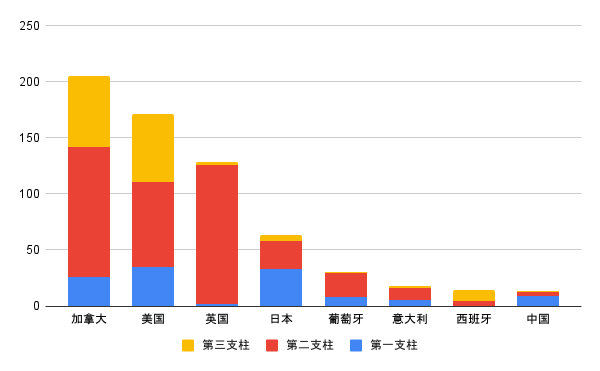
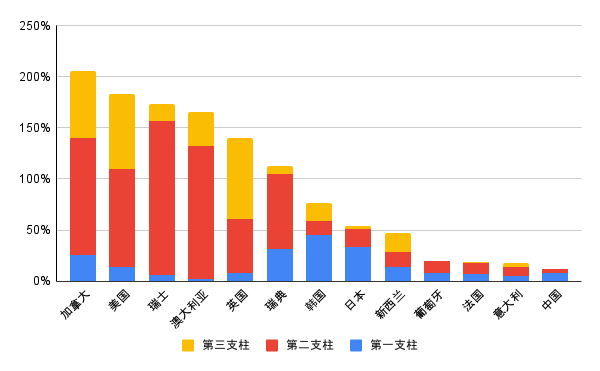
update

Changed region(s): [[0.03, 0.1779, 0.96, 0.8895], [0.06, 0.0593, 0.09, 0.0889]]

diff --git a/main.tex b/main.tex
@@ -1,6 +1,6 @@
 %任何有关社会保险的选题均可，期末论文具体题目请自拟
 %论文请用A4纸，字体宋体、正文字号五号，论文正文部分不超过15页。
-\documentclass[a4paper,12pt]{ctexart}
+\documentclass[a4paper,10.5pt]{ctexart}
 \usepackage[style=gb7714-2015ay]{biblatex}
 \usepackage{graphicx}
 \usepackage{amsmath}
@@ -9,48 +9,151 @@
 \usepackage[hidelinks]{hyperref}
 \providecommand{\keywords}[1]{\\\textbf{\textit{关键词：}}#1}
 \addbibresource{reference.bib}
-\title{个人养老金：让第三支柱真正成为支柱}
+\title{个人养老金：全球视角与中国特色}
 \author{董晨阳}
 \date{\today}
 \begin{document}
 \maketitle
+\thispagestyle{empty}
 \begin{abstract}
-在这里写摘要。
-\keywords{关键词1，关键词2}
+    在这里写摘要。
+    \keywords{关键词1，关键词2}
 \end{abstract}
+\setcounter{secnumdepth}{0}
+\tableofcontents
 \clearpage
-\section*{个人养老金的时代背景}
-2022年4月，国务院办公厅发布《关于推动个人养老金发展的意见》，标志着中国个人养老金已经取得制度层面的突破。2022年6月，人力资源社会保障部、财政部、国家税务总局、银保监会、证监会联合印发《关于推动个人养老金发展的意见》宣传提纲，加速推进政策落地。11月，《个人养老金实施办法》、《个人养老金投资公开募集证券投资基金业务管理暂行规定》、《商业银行和理财公司个人养老金业务管理暂行办法（征求意见稿）》、《关于个人养老金有关个人所得税政策的公告》等政策落地，明确了个人养老金参与流程、税收优惠等细节，完善了个人养老金相关产品规定。
+\setcounter{page}{1}
+\section{个人养老金的全球多样性}
+发展个人养老金，是应对人口老龄化压力、完善养老体系的重要改革举措。经过长期论证，我国于2018年启动个人养老金制度建设，2022年加快部署：4月份国务院办公厅发布《关于推动个人养老金发展的意见》；6月份人社部、财政部、国家税务总局、银保监会、证监会联合印发《关于推动个人养老金发展的意见》宣传提纲，证监会发布《个人养老金投资公开募集证券投资基金业务管理暂行规定(征求意见稿)》，随着更多相关细则落地实施，个人养老金发展可能进入新阶段。
+\begin{figure}[H]
+    \includegraphics[width=\linewidth]{img/三支柱规模占GDP比重.png}
+    \caption{养老储备规模与结构差异明显}
+\end{figure}
 
-我国以基本养老保险为基础、企业年金和职业年金为补充、个人储蓄性养老保险和商业养老保险相衔接的“三支柱”体系，对应当前国际养老体系的一般基准。个人养老金属于第三支柱，与前两支柱的不同在于：第一支柱基本养老保险由国家强制实施，个人养老金由个人自愿参加；第二支柱企业年金、职业年金由用人单位及其职工建立、共同缴费，个人养老金由个人缴费。从三支柱的规模占比来看，第一支柱占主导。截至2021年底，我国第一支柱基本养老金总规模约6.4万亿元，已覆盖超过10.3亿人；第二支柱约为4.5万亿元，参加职工超7000万人；第三支柱刚刚起步，我国商业养老保险责任准备金积累规模0.6万亿元。三大支柱总规模约11万亿元，一、二、三支柱分别占比67\%，29\%和4\%，合计约占GDP的13.4\%。
+由于海外发展个人养老金时间较久，可以为我国提供一定借鉴，当前大部分的养老金研究也以梳理国外案例为主，通过列举几个发达市场个人养老金的发展现状，然后套用到我国的养老金实践中。例如根据美国第一、二、三支柱养老金资产占GDP比重，预测中国未来的个人养老金规模。这种案例分析虽然可以提供一定信息，但是局限性也比较明显。由于各国的经济基础、人口结构、制度体系千差万别，不仅导致养老金总体规模差异明显，结构比重也大相径庭。美国个人养老金规模占GDP比重超过70\%，在养老储备中占比约40\%，而同属发达国家的日本，其个人养老金规模占GDP比重仅3.4\%，在养老储备中占比不足4\%。中国个人养老金的发展前景究竟应该对标美国还是日本？案例分析难以给出令人信服的答案。
+\begin{figure}[H]
+    \includegraphics[width=\linewidth]{img/totalOECDpensionassets.png}
+    \caption{养老金资产的全球分布极不均匀}
+\end{figure}
 
-个人养老制度推进的背景因素包括以下几个方面：
+分析个人养老金发展前景，确实需要参考海外市场经验，但是分析框架需要升级，不能停留在列举个别案例的层面，而应从全球养老金的多样化实践中寻找普遍规律，以此为基础推导我国乃至全球个人养老金的发展前景，并根据中国具体国情做出修正。本文根据过去20年中26个国家的个人养老金发展实践，从人口特征、经济基础、制度设计三个维度展开分析，研究中国与全球养老金的发展的共性与特性，提供一些分析与核算。
+\section{文献综述}
+
+\section{他山之石：海外养老金第三支柱发展经验}
+\subsection{美国}
+\subsection{日本}
+\subsection{德国}
+
+\section{个人养老金规模的影响因素}
+
+\subsection{人口特征}
+年龄结构变化首先促进养老金积累，然后可能会形成养老金减量压力。根据生命周期理论\cite{ando1963life}，个体的收入水平随年龄不断变化，理性人会根据一生总收入安排消费与储蓄：在年轻阶段，收入大部分被消费掉甚至小于消费，往往形成负债，储蓄较少；中年阶段收入高于消费，偿还年轻时的负债，并为退休阶段准备养老资金，储蓄积累较快；进入老年阶段，消费下降但收入下降更多，需要使用中年阶段积累的养老资金，储蓄增长放缓甚至减少。因此随着年龄增长，储蓄水平先上升后下降。使用老年抚养比把全球主要国家分为四组，观察2010-2020年的个人养老金积累速度，可以发现随着老年抚养比提高，个人养老金积累速度开始放缓，但是在抚养比小于35\%时，个人养老金仍然可以实现较快积累；当抚养比小于20\%时，抚养比每提升1\%，个人养老金占GDP比重增加3.6\%；抚养比处于20\%-30\%之间时，养老金比重平均上升2.7\%；当抚养比在30\%-35\%之间，养老金比重增速降至1.2\%。只有当抚养比超过35\%，个人养老金占GDP比重才进入相对稳定状态。目前全球老年抚养比为14.8\%，联合国预测2075年左右升至35\%。在这个阶段，虽然消耗储蓄的75岁以上人口比重上升较快，但是55-74岁相对年轻的老年人口比重也在上升，而这个年龄阶段人口仍在积累储蓄，因此全球养老金在未来10年里可能仍会继续增长。与此同时，随着储蓄最多的中年人口比重下降，全球总体养老金积累速度可能开始放缓。由于不同国家老年化程度不同，养老金积累可能分化加剧，部分老龄化程度较深的国家甚至可能出现养老金减量的情况。
+\begin{figure}[H]
+    \includegraphics[width=\linewidth]{img/随着老年付养比提高，养老金积累增速开始下降.png}
+    \caption{从左到右颜色对应老年抚养比0-20\%，20-30\%，30-35\%，35\%以上}
+\end{figure}
+
+预期寿命延长则促进养老金积累。在给定退休年龄的前提下，预期寿命延长意味着退休时间相较工作时间得到延长。根据生命周期理论，为平滑终身消费，居民需要在工作阶段积累更多的养老储蓄，用以退休后的消费支出，因此预期寿命和养老储蓄之间应该存在正相关性。从实证数据来看，伴随世界人口预期寿命的提升，全球储蓄占GDP的比重震荡上行，一定程度上反映了二者的正相关性；大量学术文献也得出了相一致的结论\cite{bloom2003longevity,de2009life}，发现即使控制了居民收入、年龄结构等因素后，预期寿命的提升会显著提升居民储蓄率。由于个人养老金属于养老储蓄的一部分，因此预期寿命的延长会对个人养老金起到推动作用。
+\begin{figure}[H]
+    \begin{minipage}{0.48\linewidth}
+        \includegraphics[width=\linewidth]{img/世界各国预期寿命普遍提升.png}
+        \caption{世界各国预期寿命普遍提升}
+    \end{minipage}
+    \begin{minipage}{0.48\linewidth}
+        \includegraphics[width=\linewidth]{img/人口预期寿命与储蓄占GDP比重同步上升.png}
+        \caption{预期寿命与储蓄占GDP比重同步上升}
+    \end{minipage}
+\end{figure}
+
+\subsection{经济基础}
+
+个人养老金是一种储蓄，而收入水平是影响储蓄的关键因素。凯恩斯的《就业利息和货币通论》中提出了边际消费倾向递减的规律，即虽然居民消费会随着居民收入的增加而增加，但增加的收入中用于消费的比例会逐渐降低，相对应储蓄的比例会升高。边际消费倾向递减的规律决定了收入水平提高会提升储蓄率，相应个人养老金规模就可能越大，个人养老金规模与居民收入水平呈现出明显正相关。
+\begin{figure}[H]
+    \includegraphics[width=\linewidth]{img/人均收入上升会提升储蓄率.png}
+    \caption{人均收入上升会提升储蓄率}
+\end{figure}
+
+个人养老金也与居民资产配置结构相关。居民资产可分为实物资产和金融资产，个人养老金作为养老储蓄，也属于金融资产的范畴。与金融资产不同，以住房为代表的部分实物资产同时具备“实物”和“金融”双重属性，如果“金融”属性被放大，则会对个人养老金等其它金融资产形成挤压。部分国家的实证研究表明，高房价会对私人养老储蓄产生挤出效应。例如\citet{crawford2020impact}研究英国市场发现高房价会挤出私人养老金参与率，对于中等收入人群尤其明显，私人养老金发展规模与房地产相对价格呈现负相关。
+\begin{figure}[H]
+    \begin{minipage}{0.48\linewidth}
+        \includegraphics[width=\linewidth]{img/us.png}
+        \caption{美国居民资产配置结构中房产占比仅约25\%}
+    \end{minipage}
+    \begin{minipage}{0.48\linewidth}
+        \includegraphics[width=\linewidth]{img/cn.png}
+        \caption{中国居民资产配置结构中房产占比接近60\%}
+    \end{minipage}
+\end{figure}
+
+我国居民资产配置失衡不仅体现在以房产为代表的实物资产占比过高，在金融资产内部也存在配置失衡，后者主要受我国金融发展水平影响。从广义角度讲，金融作为资金供给-需求的中间桥梁，其发展水平决定了储蓄-投资的转换效率，影响收入分配和资产配置格局，进而左右个人养老金的发展。金融发展受制度性因素影响较大，尤其是在发展中国家中，普遍存在金融抑制现象。金融抑制的概念最早由\citet{fishkin1973moral}提出，指政府干预金融市场而阻碍金融发展的现象，主要表现为利率(上限)管制、流动性比率限制、高存款准备金率、资本管制、金融市场准入门槛、信贷额度或分配限制、银行国有化等。金融抑制会阻碍个人养老金的发展，主要体现在需求和供给两个方面：从需求端，在金融抑制的环境中，由于存款利率被严重压低，实际上形成了一种居民补贴企业的效果，同时诱导企业选择低成本的资本密集型技术，以资本替代劳动，导致居民收入在国民收入分配中所占份额下降\cite{陈斌开2012金融抑制}，对养老储蓄形成挤出；在供给端，由于高度依赖银行体系并存在资本账户管制，金融资产形式单一，直接融资市场发展不完备，养老产品供给缺乏，居民养老投资选择范围有限。
+
+投资收益率提高，可以促进个人养老金积累。从资产增值的角度，投资收益率的提高会加速个人养老金所积累资产的增值，与此同时根据生命周期理论，高收益率可能会吸引个人投资者减少当期消费、增加储蓄，并提升个人养老金相较其它个人储蓄(如定期存款)的吸引力，将其他个人储蓄转化为个人养老金。
+\begin{figure}[H]
+    \includegraphics[width=\linewidth]{img/OECD国家私人养老金资产配置中股票占比不断上升.png}
+    \caption{OECD国家私人养老金资产配置中股票占比不断上升}
+\end{figure}
+
+\subsection{制度设计}
+第一二支柱的发展状况，会影响第三支柱个人养老金发展。由于公共养老金大多采用现收现付制，养老金资产存量未必准确反映养老金实际经济影响，个人养老金发展规模与公共养老金的支出规模存在较强的负相关关系，反映二者的替代效应。如果公共养老金支出规模较大，势必需要政府财政或居民缴费的支撑，在此背景下居民当期可支配收入减少，降低了于私人储蓄。与此同时，公共养老金支出较高，一般替代率水平也比较高，已经可以满足大部分居民的养老需求，积累私人养老金的必要性下降。
+
+个人养老金和企业养老金同属于私人养老金，总体来看二者的发展具有正相关性，主要由于二者属性相似，均为基金积累制，且税收优惠制度相似。但与此同时，二者也具有竞争性：企业养老金相较个人养老金更具吸引力：企业年金一般会由企业或政府配资，且部分国家企业养老金具有强制性或半强制性，或引入自动加入机制，而个人养老金一般为自愿型。促进个人养老金发展的关键机制设计在于转化机制。如果没有相互转化机制，由于企业年金更具优势，往往个人养老金发展相对缓慢；而如果存在相互转化机制，个人养老金一般能获得更好发展。以美国为代表，企业年金发展会推动个人养老金发展。事实上美国家庭向个人养老金中缴存的比例较低，其资金来源主要以401(k)等企业或其它养老计划的转存流入为主，占比高达90\%以上。
+
+最后，税优制度也对个人养老金有一定的促进作用。世界各国普遍采用税收激励的方式以支持个人养老金发展，这也是个人养老金与普通银行存款等其它投资储蓄账户的主要区别之一。目前世界上主流的免税激励模式是EET型，即在缴费和资本利得阶段享受税收优惠，在提取阶段需要偿还税收优惠。通过简单计算即可发现，EET模式相较正常储蓄账户具有显著的税收激励效果。其中，资本利得税在EET免税激励模式中发挥了重要作用，普通储蓄账户的资本利得税越高，养老金账户在EET模式下所享受的税收优惠程度就越大，进而促进个人养老金的发展
+
+\section{中国特色}
+\subsection{个人养老金政策与产品现状}
+政策设计上，自2018年启动建立养老保险第三支柱工作以来，我国个人养老金账户政策逐步细化。对比国外相关规定，当前我国个人养老金政策的主要特征为
 \begin{enumerate}
-    \item 中国养老体系发展较快但仍相对薄弱，三支柱总量规模仍显不足。如前文所述，当前三大支柱合计规模11万亿元，占GDP的比例为13\%，略低于OECD平均水平（2020年为14\%），与部分发达国家相比更是有较大差距，2020年加拿大、英国等发达国家的养老金储备占GDP比重普遍超过100\%，，美国三支柱规模占GDP比例为171\%。虽然我国的财政实力（增加财政用于社保的支出）及保障储备（划转国资充实社保）都可以作为居民养老的潜在补充，但是这些并不能替代三支柱体系。
-    \begin{figure}[H]
-        \centering
-        \includegraphics[width=\linewidth]{img/三支柱规模占GDP比重.png}
-        \caption{2020年三支柱规模占GDP比重}
-        \label{fig:GDPin2020}
-    \end{figure}
-    \item 三支柱规模并不均衡，目前仍以第一支柱为主。近年我国对于第二、三支柱发展的重视程度明显提升，结合前文所述，截止2021年底，三个支柱的规模占比为67\%:29\%:4\%，相较十年前第一支柱规模占比接近90\%的情况已经有明显改观。但是相较其他主要国家的情况来看，目前我国的三支柱占比仍不均衡，第一支柱的占比依然偏高。对比美国来看，美国当前三大支柱养老金的总规模分别为8.0万亿美元、14.8万亿美元和16.5万亿美元，占比为20\%:38\%:42\%，也由此可见美国的雇主养老金计划（第二支柱）和个人养老金计划（第三支柱）在美国整个养老金体系的重要性。未来第一支柱的扩大可能受制于缴费率和人口老龄化问题。中国第一支柱城镇职工基本养老保险合计缴费率为24\%，其中企业缴纳16\%，个人缴纳8\%，相对比美国第一支柱的有效缴费率仅为10.6\%，同属亚洲国家的日本和韩国分别为8.3\%和9\%。这使得我国企业的税费负担相对较重。与此同时，伴随我国人口老龄化加深，未来养老负担明显加重。目前老年赡养率为18.5\%，低于OECD平均水平（30.4\%），2050年中国老年赡养率可能上升至接近50\%，2080年进一步上升至60\%。在缴费率难以进一步提升，养老支出在老龄化趋势下可能增加的背景下，第一支柱的规模较难扩大，甚至面临财务持续性问题。2014年城镇职保的征缴收入开始低于基金支出。为维持基金正常运营，各级政府财政补贴力度逐年提高。即便计入政府财政补贴，2020年城镇职保仍出现近7000亿元的收支缺口，基金累计结存首次出现下降。城乡居保只有个人账户来自缴费，统筹账户资金原本就由国家财政承担，因此自设立之初征缴收入就一直低于基金支出。因此，在第一支柱扩容可能受限的背景下，我国第二、三支柱（补充养老保险）发展对于我国养老金体系保障能力的提升具有重要意义。
-    \item 除了第一支柱外，发展个人养老制度也客观上有助于对冲其他养老方式面临的困境。例如结合世界银行对“第四支柱”的表述，房屋资产用于个人养老也是此前中国试点的一个方向。2014年6月，《关于开展老年人住房反向抵押养老保险试点的指导意见》出台，在北京、上海、广州、武汉开展住房反向抵押养老保险试点，2018年进一步将试点范围扩大至全国，但效果有限，呈现“供需双冷”局面。事实上，许多发达国家的住房反向抵押市场同样发展受阻。例如澳大利亚65岁以上老人中选择住房反向抵押的数量占比仅为1-2\%，价值占比0.4\%\citep{productivity2015australia}；美国约有12-14\%的老年人符合住房反向抵押的参与条件，但参与率低于2\%\citep{warshawsky2017retire}。而且“以房养老”可能会增加居民部门杠杆率，有降低金融稳定性的潜在风险；投资房产相当于对养老储备征收“累退税”，高收入阶层房屋投资需求高，可以有效转化为养老储备；而低收入阶层以刚性使用需求为主，较难分享房屋价值升值的福利。
+    \item 参与主体覆盖面广，参与自由。我国三支柱个人账户允许在中国境内参加一支柱养老保险的全体劳动者参与，第一支柱养老保险当前已覆盖约10亿人口。相比之下，第二支柱参保前提为供职企业设立企业年金，故三支柱养老覆盖面更广，参与更加自由。这一制度设计与美国IRA账户思路基本一致。值得一提的是，该制度的建立对于广大无法参加第二支柱养老体系的灵活就业人员意义重大，有望成为当前社会保障制度的重要补充。
+    \item 出资与主体：自愿开立，个人出资，个人管理。第三支柱养老体系完全由个人出资，采用完全积累制。不同于第一支柱与第二支柱的统一专户委托管理，第三支柱资金由个人作为投资决策主体。我国试点政策缴纳额度上限最高为12000元，占当年平均工资百分比16.2\%，高于IRA的13.1\%，但低于DC计划38.4\%，符合三支柱特征。
+    \item 账户投资范围：投资自由度相对前两支柱较高。个人自主选择购买符合规定的储蓄存款、理财产品、商业养老保险、公募基金等金融产品(统称个人养老金产品)。考虑到投资者教育水平等因素，我国相较于美国IRA账户投资自由度更低。
+    \item 账户开立：养老资金账户仅能在商业银行开立，其他符合规定的金融产品销售机构可代销养老主题金融产品，商业银行把握资金入口，而美国无相关限制。
+    \item 资金提取：有待进一步细化。参加人达到领取基本养老金年龄、完全丧失劳动能力、出国(境)定居等经信息平台核验领取条件后，可以按月、分次或者一次性领取个人养老金，领取方式一经确定不得更改，暂未规定强制提取年龄，也未明确提前支取的惩罚性条款。
 \end{enumerate}
 
+截至2022年11月25日，个人养老金产品主要有：
+\begin{enumerate}
+    \item 个人养老储蓄：首批23家商业银行发行的储蓄存款（包括4家国有大行发行的特定养老储蓄）
+    \item 个人养老金理财产品：包括养老理财产品及其他理财产品，已纳入养老理财试点的11家理财公司可以参与，需要将拟参与个人养老金运行的理财产品报送银保监会。
+    \item 个人养老金保险产品：包括年金保险、两全保险，以及银保监会认定的其他产品。目前包括6家机构的7只专属商业养老保险产品。
+    \item 个人养老金公募基金：试行阶段，优先纳入养老目标基金，后续适时逐步纳入其他基金。目前包括40家公募机构的129只养老目标基金。
+\end{enumerate}
 
-\section*{文献综述}
+\subsection{三支柱养老布局展望}
+综合海外养老资管行业发展特征与我国发展形势，三支柱养老发展空间广阔。
 
-\section*{个人养老金现状}
-\subsection*{当前政策扶持}
+居民收入持续提升有助于提升潜在账户持有率。美国账户持有比例与家庭收入正相关。据ICI统计，家庭年收入在2.5万美元及以下的美国家庭IRA持有率仅9\%；而年收入20万美元及以上家庭IRA持有率则高达65\%，且持有率随家庭年收入提升稳定正增。自2012年至2020年，我国城镇职工平均年薪已自4.0万元升至7.4万元，同期平均个人可支配收入从1.7万元提升至3.2万元，均有显著提升。结合海外经验，三支柱养老账户建设经济基础已有显著改善。
+\begin{figure}[H]
+    \includegraphics[width=\linewidth]{img/美国家庭持有IRA的比例与收入显著正相关.png}
+    \caption{美国家庭持有IRA的比例与收入显著正相关}
+\end{figure}
 
-\subsection*{产品现状}
+人口老龄化深化演进唤醒居民养老意识，提升账户持有意愿。美国经验表明，IRA持有意愿在退休前与住户年龄显著正相关。ICI调查数据显示，在退休年龄(65岁)之前，美国家庭IRA持有率随家主年龄提升而提升。我国人口老龄化的深入演进有望进一步唤醒居民养老储蓄意识，提升三支柱账户持有意愿。
+\begin{figure}[H]
+    \includegraphics[width=\linewidth]{img/IRA账户持有率和全美住户IRA账户持有率.png}
+    \caption{IRA账户持有意愿在退休前与住户年龄显著正相关}
+\end{figure}
 
-\section*{个人养老金现国际经验}
+我国居民在养老金融上风险偏好低、对于银行系产品参与意愿更高。中国养老金融50人论坛对1.2万18岁以上、在城镇居住的人员进行调查。从风险承受上看，近五成调查对象可以阶段性承受10\%以内的亏损、近四成调查对象表示任何时候都不能出现亏损；从税优养老金融产品参与意愿来看，居民对于养老理财、养老储蓄和养老保险这类风险较低的产品参与意愿更高。
+\begin{figure}[H]
+    \begin{minipage}{0.48\linewidth}
+        \includegraphics[width=\linewidth]{img/36调查对象无法承受任何亏损.png}
+        \caption{36\%调查对象无法承受任何亏损}
+    \end{minipage}
+    \begin{minipage}{0.48\linewidth}
+        \includegraphics[width=\linewidth]{img/居民对于养老理财、养老储蓄及养老保险参与意愿更高.png}
+        \caption{居民对于养老理财、养老储蓄及养老保险参与意愿更高}
+    \end{minipage}
+\end{figure}
 
-\section*{个人养老金现前景展望}
+\section{启示}
+投资属性上看，商业养老保险具有保本属性、养老理财风险较低、养老基金风险和波动更高；服务属性上看，商业养老保险具备相对优势。养老金融产品包括投资属性和服务属性，从投资属性上看，商业养老保险采取保本+浮动收益，适合风险偏好较低的投资者。养老理财和养老基金均为非保本产品，其中养老理财整体投资期限更长、具有较高的业绩比较基准、产品费率低，同时具有风险保障机制以平滑波动，适合中低风险偏好的投资者；养老基金业绩比较基准以相对收益为主，费率更高，对应风险和收益更高，适合中风险及中高风险投资偏好人群。从服务属性上看，保险产品可附加康养等服务，未来将成为其差异化的竞争点。
 
-\section*{结论}
+短期而言，渠道端将自上而下影响产品配置。据《中国养老金融调查报告(2021)》调查，36\%调查对象选择养老金融产品途径为银行或其他金融机构，为选择养老金融产品的主要渠道。短期来看，渠道端将对居民资产配置影响较大。早期银行渠道较为强势，同时，居民风险偏好较低，相较于养老基金等风险较高的产品，储蓄和理财产品在风险程度上与我国养老人群更匹配；此外，养老理财凭借较高的业绩标准、低于其他养老金融产品的费率以及风险保障机制平滑基金波动等优势亦具备较强的吸引力。因此早期养老理财和养老储蓄或将具备较高份额。
 
+长期而言，底层资产收益率将自下而上影响产品配置。伴随着市场利率下行，以及权益市场向好，养老基金将具备更高的收益和更强的吸引力。长期而言，银行产品的市场份额将部分分流至保险及基金产品，其中，保险产品以其保本+投资的属性将部分替代银行产品的保本功能，而基金产品以其相对较高的回报率将部分替代银行产品的收益功能。因此长期来看养老基金和养老保险市场份额将有所提升，养老储蓄和养老理财份额或将下滑。
+
+\appendix
 \nocite{*}
-\printbibliography[heading=bibliography,title=参考文献]
+\printbibliography[heading=bibliography]
 \end{document}
